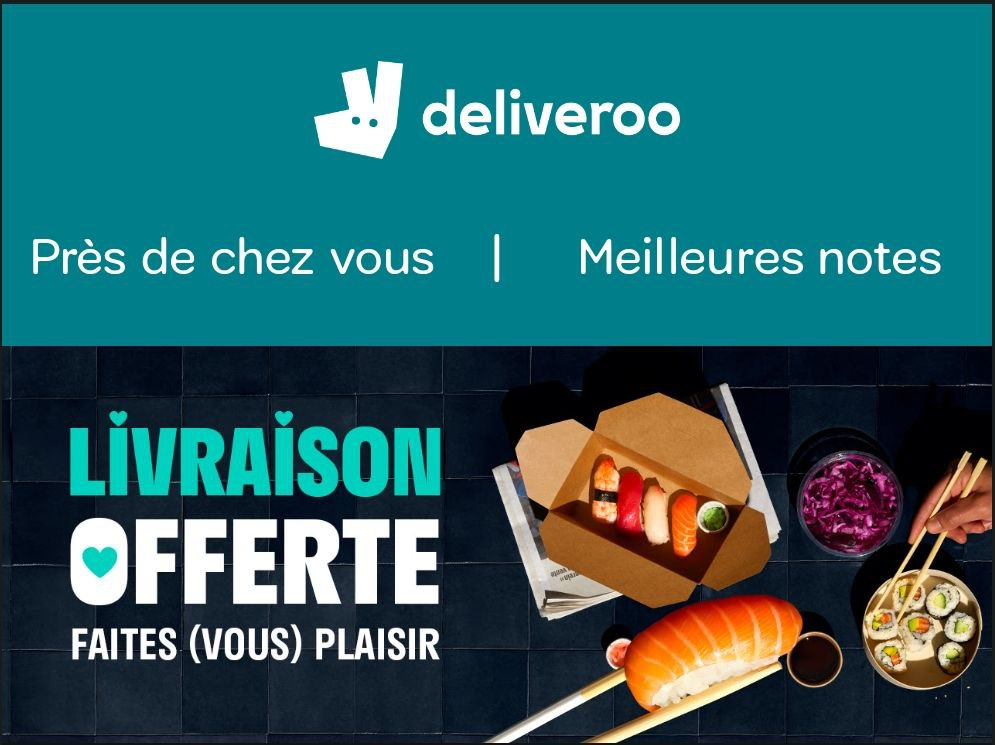
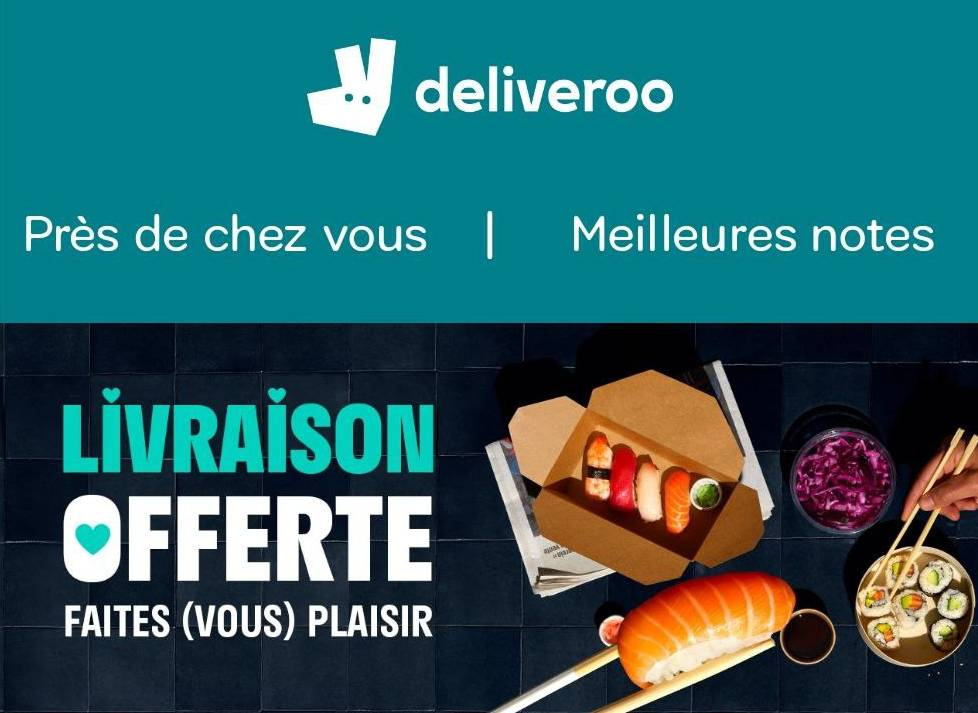
functional OK

diff --git a/index.html b/index.html
@@ -12340,7 +12340,7 @@
 													</div>
 												</div> <!-- .et_pb_text -->
 												<div class="et_pb_module et_pb_image et_pb_image_0">
-													<span class="et_pb_image_wrap "><img decoding="async" src="deliveroo_x_laplateforme.jpg" alt="" title="HP_visual_light" height="auto" width="auto" /></span>
+													<span class="et_pb_image_wrap "><img style="border-radius: 10px;" decoding="async" src="deliveroo_x_laplateforme.jpg" alt="" title="HP_visual_light" height="auto" width="auto" /></span>
 												</div>
 											</div> <!-- .et_pb_column -->
 											<div class="et_pb_column et_pb_column_1_2 et_pb_column_1  et_pb_css_mix_blend_mode_passthrough et-last-child">
@@ -12468,7 +12468,43 @@
                                     
                                     
                                     <div class="et_pb_section et_pb_section_1 et_section_regular">
-										<div class="et_pb_row et_pb_row_1">
+                                        <div class="et_pb_row et_pb_row_1 et_pb_row_fullwidth et_had_animation" style="">
+                                            <div class="et_pb_column et_pb_column_4_4 et_pb_column_2  et_pb_css_mix_blend_mode_passthrough et-last-child">
+                                                <div class="et_pb_module et_pb_text et_pb_text_3 et_pb_text_align_center et_pb_bg_layout_dark et_had_animation" style="">
+                                                    <div class="et_pb_text_inner">
+                                                        <a class="et_pb_button et_pb_button_0 et_pb_bg_layout_light et_pb_text_align_center" href="https://deliveroo.fr" target="_blank" rel="noopener noreferrer">
+                                                            <span class="et_pb_button_text">Téléchargez l'application Deliveroo</span>
+                                                            <span class="et-pb-icon et-pb-icon--right">
+                                                                <img src="deliveroo_icon.png" alt="Deliveroo App Icon" width="256px">
+                                                            </span>
+                                                        </a>                                                    
+                                                    </div>
+                                                </div> <!-- .et_pb_text -->
+                                            </div> <!-- .et_pb_column -->
+                                        </div>
+                                        <div class="et_pb_row et_pb_row_2 et_pb_row_fullwidth et_pb_equal_columns">
+                                            <div class="et_pb_column et_pb_column_1_2 et_pb_column_2  et_pb_css_mix_blend_mode_passthrough et-last-child">
+                                                <div class="et_pb_module et_pb_text et_pb_text_2  et_pb_text_align_left et_pb_bg_layout_light">
+                                                    <!-- Add a button to download Marketplace app from Appstore/Playstore -->
+                                                    <div class="et_pb_button_module_wrapper marketplace-app">
+                                                        <a class="et_pb_button et_pb_button_0 et_pb_bg_layout_light et_pb_text_align_center" href="https://apps.apple.com/fr/app/deliveroo/id1001501844" target="_blank" rel="noopener noreferrer">
+                                                            <span class="et_pb_button_text">Téléchargez l'application sur l'Appstore</span>
+                                                            <span class="et-pb-icon et-pb-icon--right">
+                                                                <img src="appstore_icon.png" alt="Appstore Icon" width="256px">
+                                                            </span>
+                                                        </a>
+                                                        <a class="et_pb_button et_pb_button_1 et_pb_bg_layout_light et_pb_text_align_center" href="https://play.google.com/store/apps/details?id=com.deliveroo.orderapp&hl=fr" target="_blank" rel="noopener noreferrer">
+                                                            <span class="et_pb_button_text">Téléchargez l'application sur le Playstore</span>
+                                                            <span class="et-pb-icon et-pb-icon--right">
+                                                                <img src="playstore_icon.png" alt="Playstore Icon" width="256px">
+                                                            </span>
+                                                        </a>
+                                                    </div>
+                                                </div>
+                                            </div> <!-- .et_pb_column -->
+                                        </div> <!-- .et_pb_row -->
+
+                                        <div class="et_pb_row et_pb_row_3">
 											<div class="et_pb_column et_pb_column_4_4 et_pb_column_2  et_pb_css_mix_blend_mode_passthrough et-last-child">
 												<div class="et_pb_module et_pb_text et_pb_text_3  et_pb_text_align_left et_pb_bg_layout_light">
 													<div class="et_pb_text_inner">
@@ -12485,20 +12521,9 @@
 												</ul> <!-- .et_pb_counters -->
 											</div> <!-- .et_pb_column -->
 										</div> <!-- .et_pb_row -->
-										<div class="et_pb_row et_pb_row_2">
-											<div class="et_pb_column et_pb_column_4_4 et_pb_column_3  et_pb_css_mix_blend_mode_passthrough et-last-child">
-												<!-- <div class="et_pb_module et_pb_map_0 et_pb_map_container">
-													<div class="et_pb_map" data-center-lat="43.304135525726" data-center-lng="5.3709090786261" data-zoom="15" data-mouse-wheel="on" data-mobile-dragging="on"></div>
-													<div class="et_pb_map_pin" data-lat="43.3046676" data-lng="5.369886" data-title="La Plateforme_">
-														<h3 style="margin-top:10px">La Plateforme_</h3>
-														<div class="infowindow">
-															<p>Une Ecole Tech en plein coeur de Marseille</p>
-														</div>
-													</div>
-												</div> -->
-											</div> <!-- .et_pb_column -->
-										</div> <!-- .et_pb_row -->
+
 									</div> <!-- .et_pb_section -->
+
 									<div class="et_pb_section et_pb_section_3 et_animated et_pb_with_background et_section_regular">
 									</div> <!-- .et_pb_section -->
 								</div><!-- .et_builder_inner_content -->
@@ -14068,6 +14093,23 @@
 		padding-bottom: 27px;
 		padding-left: 0px
 	}
+
+    /* .et_pb_row_1 {
+        display: flex;
+        flex-wrap: wrap;
+        justify-content: center;
+    }
+    
+    .app-links {
+        display: flex;
+        flex-wrap: wrap;
+        justify-content: center;
+    }
+    
+    .et_pb_button_module_wrapper.marketplace-app {
+        margin-left: 10px;
+        margin-right: 10px;
+    } */
 
 	.et_pb_text_3 {
 		margin-left: 30px !important
